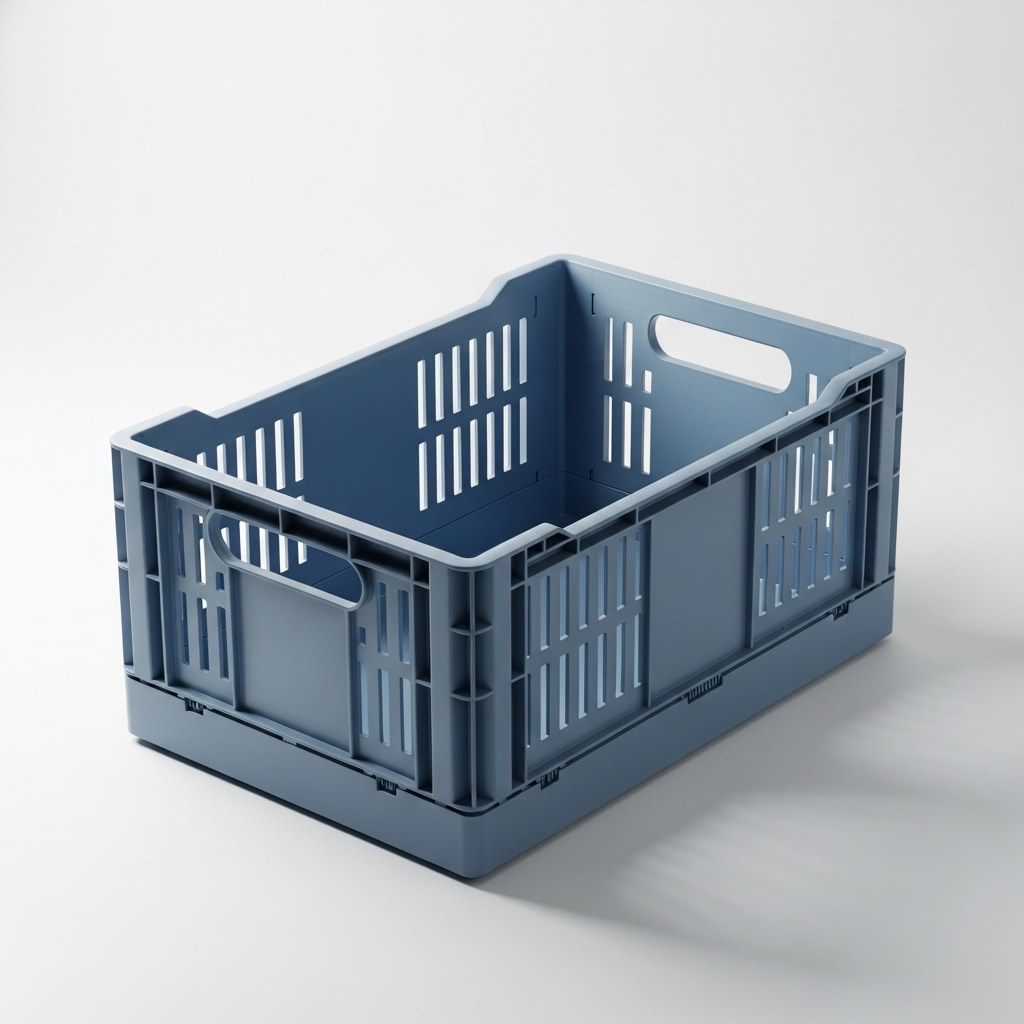
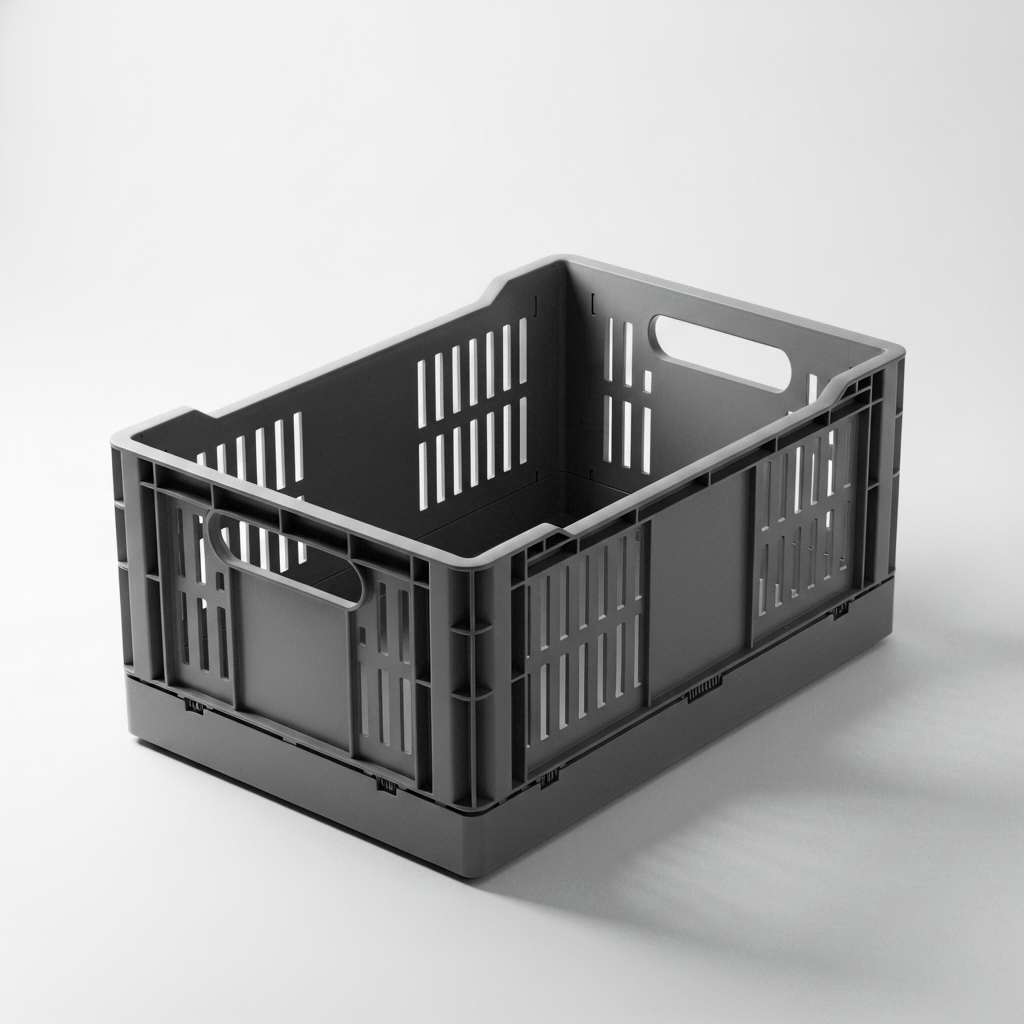
feat: Add ESD Conductive Box product and update footer copyright information across multiple pages.

Changed region(s): [[0.0938, 0.25, 0.9062, 0.875]]

diff --git a/products.html b/products.html
@@ -264,6 +264,15 @@
 
                 <div class="product-card animate-on-scroll">
                     <div class="product-image">
+                        <img src="scr/assets/pp_box_esd.png" alt="ESD Conductive Box" loading="lazy" />
+                    </div>
+                    <div class="product-info">
+                        <h3 class="product-name">ESD Conductive Box</h3>
+                    </div>
+                </div>
+
+                <div class="product-card animate-on-scroll">
+                    <div class="product-image">
                         <img src="scr/assets/plastic_container.png" alt="Plastic Container" loading="lazy" />
                     </div>
                     <div class="product-info">
@@ -339,12 +348,10 @@
                     <a href="products.html" class="footer-link">สินค้า</a>
                 </nav>
 
-                <div class="footer-brand">
-                    <span>© Area.</span>
-                    <span>2025</span>
-                </div>
 
-                <div class="footer-copyright">All Rights Reserved</div>
+
+                <div class="footer-copyright">© 2026 Koch Packaging and Packing Services Co., Ltd. All Rights Reserved
+                </div>
             </div>
         </div>
     </footer>

diff --git a/index.html b/index.html
@@ -335,7 +335,10 @@
         </div>
 
 
+      </div>
 
+      <div class="section-action text-center" style="margin-top: 40px;">
+        <a href="products.html" class="btn btn-primary">ดูทั้งหมด →</a>
       </div>
     </div>
   </section>
@@ -352,12 +355,9 @@
           <a href="products.html" class="footer-link">สินค้า</a>
         </nav>
 
-        <div class="footer-brand">
-          <span>© Area.</span>
-          <span>2025</span>
-        </div>
 
-        <div class="footer-copyright">All Rights Reserved</div>
+
+        <div class="footer-copyright">© 2026 Koch Packaging and Packing Services Co., Ltd. All Rights Reserved</div>
       </div>
     </div>
   </footer>

diff --git a/company.html b/company.html
@@ -193,12 +193,9 @@
                     <a href="products.html" class="footer-link">สินค้า</a>
                 </nav>
 
-                <div class="footer-brand">
-                    <span>© Area.</span>
-                    <span>2025</span>
-                </div>
 
-                <div class="footer-copyright">All Rights Reserved</div>
+
+                <div class="footer-copyright">© 2026 Koch Packaging and Packing Services Co., Ltd. All Rights Reserved</div>
             </div>
         </div>
     </footer>

diff --git a/packaging-development.html b/packaging-development.html
@@ -282,12 +282,9 @@
                     <a href="products.html" class="footer-link">สินค้า</a>
                 </nav>
 
-                <div class="footer-brand">
-                    <span>© Area.</span>
-                    <span>2025</span>
-                </div>
 
-                <div class="footer-copyright">All Rights Reserved</div>
+
+                <div class="footer-copyright">© 2026 Koch Packaging and Packing Services Co., Ltd. All Rights Reserved</div>
             </div>
         </div>
     </footer>

diff --git a/packaging-supply-management-system.html b/packaging-supply-management-system.html
@@ -301,12 +301,9 @@
                     <a href="products.html" class="footer-link">สินค้า</a>
                 </nav>
 
-                <div class="footer-brand">
-                    <span>© Area.</span>
-                    <span>2025</span>
-                </div>
 
-                <div class="footer-copyright">All Rights Reserved</div>
+
+                <div class="footer-copyright">© 2026 Koch Packaging and Packing Services Co., Ltd. All Rights Reserved</div>
             </div>
         </div>
     </footer>

diff --git a/partners.html b/partners.html
@@ -160,12 +160,9 @@
                     <a href="products.html" class="footer-link">สินค้า</a>
                 </nav>
 
-                <div class="footer-brand">
-                    <span>© Area.</span>
-                    <span>2025</span>
-                </div>
 
-                <div class="footer-copyright">All Rights Reserved</div>
+
+                <div class="footer-copyright">© 2026 Koch Packaging and Packing Services Co., Ltd. All Rights Reserved</div>
             </div>
         </div>
     </footer>

diff --git a/technology.html b/technology.html
@@ -276,12 +276,9 @@
                     <a href="products.html" class="footer-link">สินค้า</a>
                 </nav>
 
-                <div class="footer-brand">
-                    <span>© Area.</span>
-                    <span>2025</span>
-                </div>
 
-                <div class="footer-copyright">All Rights Reserved</div>
+
+                <div class="footer-copyright">© 2026 Koch Packaging and Packing Services Co., Ltd. All Rights Reserved</div>
             </div>
         </div>
     </footer>

diff --git a/vision.html b/vision.html
@@ -154,12 +154,9 @@
                     <a href="products.html" class="footer-link">สินค้า</a>
                 </nav>
 
-                <div class="footer-brand">
-                    <span>© Area.</span>
-                    <span>2025</span>
-                </div>
 
-                <div class="footer-copyright">All Rights Reserved</div>
+
+                <div class="footer-copyright">© 2026 Koch Packaging and Packing Services Co., Ltd. All Rights Reserved</div>
             </div>
         </div>
     </footer>

diff --git a/organization.html b/organization.html
@@ -126,12 +126,8 @@
                     <a href="products.html" class="footer-link">สินค้า</a>
                 </nav>
 
-                <div class="footer-brand">
-                    <span>© Area.</span>
-                    <span>2025</span>
-                </div>
 
-                <div class="footer-copyright">All Rights Reserved</div>
+                <div class="footer-copyright">© 2026 Koch Packaging and Packing Services Co., Ltd. All Rights Reserved</div>
             </div>
         </div>
     </footer>

diff --git a/branches.html b/branches.html
@@ -151,12 +151,9 @@
           <a href="products.html" class="footer-link">สินค้า</a>
         </nav>
 
-        <div class="footer-brand">
-          <span>© Area.</span>
-          <span>2025</span>
-        </div>
 
-        <div class="footer-copyright">All Rights Reserved</div>
+
+        <div class="footer-copyright">© 2026 Koch Packaging and Packing Services Co., Ltd. All Rights Reserved</div>
       </div>
     </div>
   </footer>

diff --git a/contact.html b/contact.html
@@ -181,12 +181,9 @@
           <a href="products.html" class="footer-link">สินค้า</a>
         </nav>
 
-        <div class="footer-brand">
-          <span>© Area.</span>
-          <span>2025</span>
-        </div>
 
-        <div class="footer-copyright">All Rights Reserved</div>
+
+        <div class="footer-copyright">© 2026 Koch Packaging and Packing Services Co., Ltd. All Rights Reserved</div>
       </div>
     </div>
   </footer>

diff --git a/expertise.html b/expertise.html
@@ -186,12 +186,9 @@
           <a href="products.html" class="footer-link">สินค้า</a>
         </nav>
 
-        <div class="footer-brand">
-          <span>© Area.</span>
-          <span>2025</span>
-        </div>
 
-        <div class="footer-copyright">All Rights Reserved</div>
+
+        <div class="footer-copyright">© 2026 Koch Packaging and Packing Services Co., Ltd. All Rights Reserved</div>
       </div>
     </div>
   </footer>
